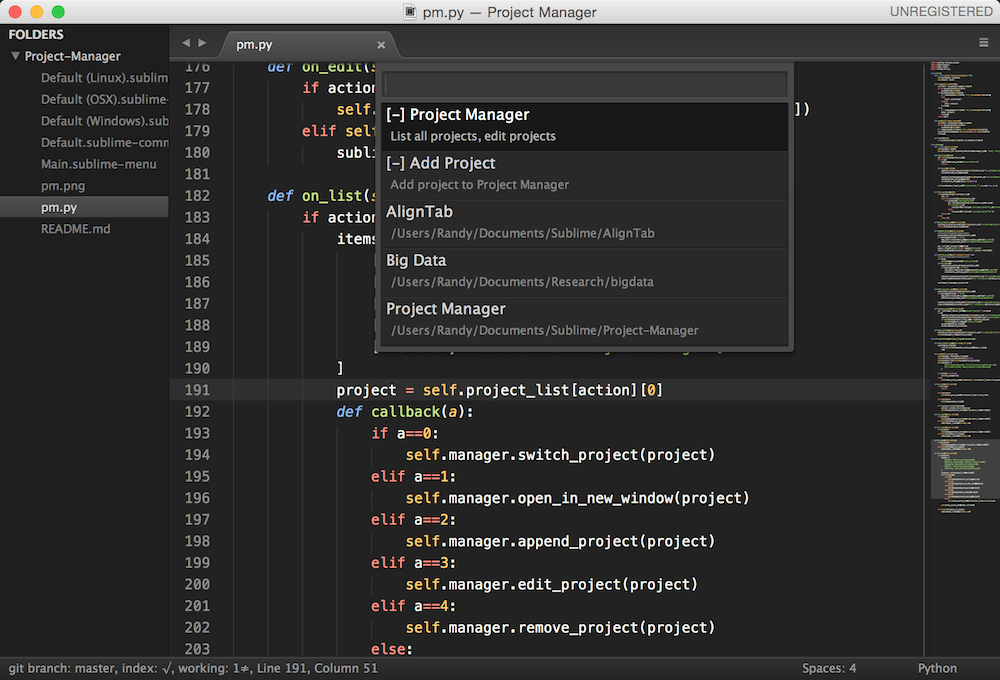
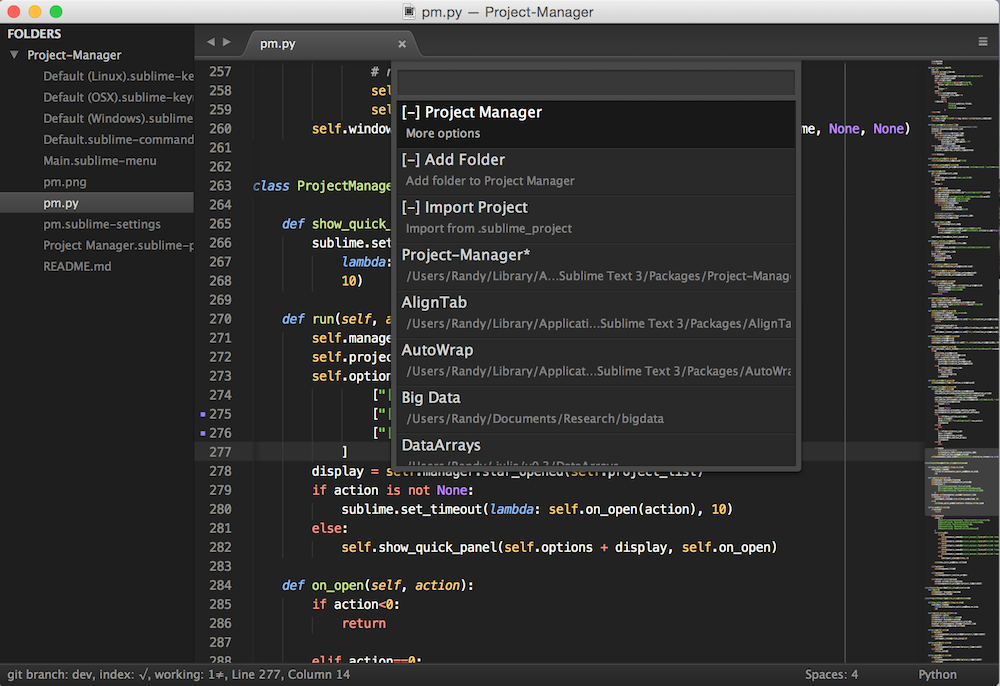
allow external .sublime-project file

Changed region(s): [[0.0, 0.0, 1.0, 1.0], [0.806, 0.9574, 0.868, 1.0]]

diff --git a/pm.py b/pm.py
@@ -45,66 +45,60 @@ def subl(args=[]):
         executable_path = app_path+"Contents/SharedSupport/bin/subl"
     subprocess.Popen([executable_path]+args)
 
+def pabs(root, folder):
+    if not os.path.isabs(folder):
+        folder = os.path.abspath(os.path.join(root, folder))
+    return folder
+
 class Manager:
     def __init__(self, window):
         self.window = window
         settings_file = 'pm.sublime-settings'
         self.settings = sublime.load_settings(settings_file)
-        custom_projects_dir = self.settings.get("projects_dir")
-        if not custom_projects_dir:
-            self.projects_dir = os.path.join(sublime.packages_path(), "User", "Projects")
-        else:
-            self.projects_dir = custom_projects_dir
+        default_projects_dir = os.path.join(sublime.packages_path(), "User", "Projects")
+        self.projects_dir = self.settings.get("projects_dir", default_projects_dir)
+        self.library_json = os.path.join(self.projects_dir, "library.json")
+        self.projects_info = self.get_projects_info()
 
-    def sublime_project(self, project):
-        return os.path.join(self.projects_dir, "%s.sublime-project" % project)
+    def get_library(self):
+        paths = []
+        j = Jfile(self.library_json)
+        for f in j.load([]):
+            if os.path.exists(f) and f not in paths:
+                paths.append(f)
+        for f in os.listdir(self.projects_dir):
+            f = os.path.join(self.projects_dir, f)
+            if f.endswith(".sublime-project") and f not in paths:
+                paths.append(f)
+        j.save(paths)
+        return paths
 
-    def sublime_workspace(self, project):
-        return os.path.join(self.projects_dir, "%s.sublime-workspace" % project)
-
-    def add_project(self):
-        pd = self.window.project_data()
-        if not pd:
-            self.window.run_command("prompt_add_folder")
-            delay = 300
-        else:
-            delay = 1
-
-        def on_add(project):
-            pd = self.window.project_data()
-            Jfile(self.sublime_project(project)).save(pd)
-            Jfile(self.sublime_workspace(project)).save({})
-            self.window.run_command("close_workspace")
-            self.window.run_command("close_project")
-            for v in self.window.views():
-                if not v.is_dirty():
-                    self.window.focus_view(v)
-                    self.window.run_command("close")
-            self.switch_project(project)
-
-        def show_input_panel():
-            pd = self.window.project_data()
-            if pd:
-                project = os.path.basename(pd["folders"][0]["path"])
-                v = self.window.show_input_panel("Project name:", project, on_add, None, None)
-                v.run_command("select_all")
-
-        sublime.set_timeout(show_input_panel, delay)
-
+    def get_projects_info(self):
+        ret = {}
+        library = self.get_library()
+        for f in library:
+            pname = os.path.basename(f).replace(".sublime-project","")
+            root = os.path.dirname(f)
+            pd = Jfile(f).load()
+            if pd and "folders" in pd and pd["folders"]:
+                folder = pd["folders"][0].get("path", "")
+            else:
+                folder = ""
+            star = ""
+            for w in sublime.windows():
+                if w.project_file_name() == f:
+                    star = "*"
+                    break
+            ret[pname] = {
+                            "folder": pabs(root, folder),
+                            "file": f,
+                            "display": pname+star
+                        }
+        return ret
 
     def list_projects(self):
-        if os.path.exists(self.projects_dir):
-            ret = []
-            for f in os.listdir(self.projects_dir):
-                if f.endswith(".sublime-project"):
-                    pd = Jfile(os.path.join(self.projects_dir,f)).load()
-                    if pd and "folders" in pd and pd["folders"]:
-                        ret.append([f.replace(".sublime-project",""), pd["folders"][0].get("path", "")])
-                    else:
-                        ret.append([f.replace(".sublime-project",""),""])
-            return ret
-        else:
-            return []
+        d = [[key, value["folder"]] for key, value in self.projects_info.items()]
+        return sorted(d)
 
     def star_opened(self, project_list):
         # it is a ugly function since it changes project_list
@@ -122,12 +116,65 @@ class Manager:
 
         return display
 
+    def sublime_project(self, project):
+        return self.projects_info[project]["file"]
+
+    def sublime_workspace(self, project):
+        return self.sublime_project(project).replace(".sublime-project", ".sublime-workspace")
+
+    def add_folder(self):
+        pd = self.window.project_data()
+        if not pd:
+            self.window.run_command("prompt_add_folder")
+            delay = 300
+        else:
+            delay = 1
+
+        def on_add(project):
+            pd = self.window.project_data()
+            f = os.path.join(self.projects_dir, "%s.sublime-project" % project)
+            Jfile(f).save(pd)
+            Jfile(f.replace(".sublime-project", ".sublime-workspace")).save({})
+            self.window.run_command("close_workspace")
+            self.window.run_command("close_project")
+            for v in self.window.views():
+                if not v.is_dirty():
+                    self.window.focus_view(v)
+                    self.window.run_command("close")
+
+            # reload projects info
+            self.projects_info = self.get_projects_info()
+            self.switch_project(project)
+
+        def show_input_panel():
+            pd = self.window.project_data()
+            if pd:
+                project = os.path.basename(pd["folders"][0]["path"])
+                v = self.window.show_input_panel("Project name:", project, on_add, None, None)
+                v.run_command("select_all")
+
+        sublime.set_timeout(show_input_panel, delay)
+
+    def import_sublime_project(self):
+        project = self.window.project_file_name()
+        if not project:
+            sublime.message_dialog("Project file *.sublime-project not found!")
+            return
+        ok = sublime.ok_cancel_dialog("Import %s?" % os.path.basename(project))
+        if ok:
+            j = Jfile(self.library_json)
+            data = j.load([])
+            if project not in data:
+                data.append(project)
+                j.save(data)
+
     def get_project_data(self, project):
         return Jfile(self.sublime_project(project)).load()
 
     def check_project(self, project):
         if not os.path.exists(self.sublime_workspace(project)):
-            Jfile(self.sublime_workspace).save({})
+            Jfile(self.sublime_workspace(project)).save({})
+        pass
 
     def close_project(self, project):
         for w in sublime.windows():
@@ -139,7 +186,8 @@ class Manager:
 
     def append_project(self, project):
         pd = self.get_project_data(project)
-        paths = [f.get("path") for f in pd.get("folders")]
+        root = os.path.dirname(self.sublime_project(project))
+        paths = [pabs(root, f.get("path")) for f in pd.get("folders")]
         subl(["-a"] + paths)
 
     def switch_project(self, project):
@@ -160,11 +208,20 @@ class Manager:
         sublime.set_timeout_async(lambda: subl(["-n", self.sublime_project(project)]), 300)
 
     def remove_project(self, project):
-        ok = sublime.ok_cancel_dialog("Remove Project %s?" % project)
+        ok = sublime.ok_cancel_dialog("Remove Project %s from Project Manager?" % project)
         if ok:
-            self.close_project(project)
-            os.unlink(self.sublime_project(project))
-            os.unlink(self.sublime_workspace(project))
+            pfile = self.sublime_project(project)
+            root = os.path.dirname(pfile)
+            if re.match(self.projects_dir, root):
+                self.close_project(project)
+                os.unlink(self.sublime_project(project))
+                os.unlink(self.sublime_workspace(project))
+            else:
+                j = Jfile(self.library_json)
+                data = j.load([])
+                if pfile in data:
+                    data.remove(pfile)
+                j.save(data)
 
     def edit_project(self, project):
         self.window.open_file(self.sublime_project(project))
@@ -172,9 +229,10 @@ class Manager:
     def rename_project(self, project):
         def on_rename(new_project):
             sublime_project = self.sublime_project(project)
-            new_sublime_project = self.sublime_project(new_project)
+            new_sublime_project = os.path.join(os.path.dirname(sublime_project),
+                                    "%s.sublime-project" % new_project)
             sublime_workspace = self.sublime_workspace(project)
-            new_sublime_workspace = self.sublime_workspace(new_project)
+            new_sublime_workspace = new_sublime_project.replace(".sublime-project", ".sublime-workspace")
             if self.close_project(project):
                 reopen = True
             else:
@@ -188,7 +246,15 @@ class Manager:
                 j.save(data)
             except:
                 pass
+            j = Jfile(self.library_json)
+            data = j.load([])
+            if sublime_project in data: data.remove(sublime_project)
+            data.append(new_sublime_project)
+            j.save(data)
+
             if reopen:
+                # reload projects info
+                self.projects_info = self.get_projects_info()
                 self.open_in_new_window(new_project)
         self.window.show_input_panel("New project name:", project, on_rename, None, None)
 
@@ -205,7 +271,8 @@ class ProjectManager(sublime_plugin.WindowCommand):
         self.project_list = self.manager.list_projects()
         self.options = [
                 ["[-] Project Manager", "More options"],
-                ["[-] Add Project", "Add project to Project Manager"]
+                ["[-] Add Folder", "Add folder to Project Manager"],
+                ["[-] Import Project", "Import .sublime_project"]
             ]
         display = self.manager.star_opened(self.project_list)
         if action is not None:
@@ -242,7 +309,10 @@ class ProjectManager(sublime_plugin.WindowCommand):
             self.show_quick_panel(items, callback)
 
         elif action==1:
-            self.manager.add_project()
+            self.manager.add_folder()
+
+        elif action==2:
+            self.manager.import_sublime_project()
 
         elif action>=len(self.options):
             action = action-len(self.options)
@@ -251,7 +321,7 @@ class ProjectManager(sublime_plugin.WindowCommand):
 class ProjectManagerAdd(sublime_plugin.WindowCommand):
     def run(self):
         self.manager = Manager(self.window)
-        self.manager.add_project()
+        self.manager.add_folder()
 
 class ProjectManagerList(sublime_plugin.WindowCommand):
 

diff --git a/README.md b/README.md
@@ -10,7 +10,9 @@ Dont't have any idea what `*.sublime-project` and `*.sublime-workspace` are doin
 You can install Project Manager via Package Control. To launch the Project Manager, you can either open it under the `Project` menu, via the command palette, or use the hotkey `ctrl+cmd+p` (`ctrl+alt+p` for windows/linux).
 
 ### Usage
-Drag some folders into your Sublime Text window and add a project to Project Manager. The options are self-explained, enjoy!
+If you want Project Manager to manage the `*.sublime-project` and `*.sublime-workspace` files. You should open the project folder and use the "Add Folder" option of Project Manager. On the other hand, if you want to keep the project files where they are, you can use the "Import" option.
+
+Other options are self-explained, enjoy!
 
 ### Optional keybind
 You can additionally add the following keybind in your user keybind settings file for "Open project in new window"
@@ -24,7 +26,10 @@ You can additionally add the following keybind in your user keybind settings fil
 
 ### Add existing projects to Project Manager
 
-Just put your `.sublime-project` and `.sublime-workspace` files under the directory `Packages/Users/Projects/`.
+There are two ways to add existing projects to Project Manager.
+
+1. Put your `.sublime-project` and `.sublime-workspace` files in the project directory `Packages/Users/Projects/`.
+2. Open your project, and then use the import option of Project Manager. Project Manager will memorize where the corresponding `.sublime-project` is located and open it accordingly. In other words, you can put the `.sublime-project` file in any places.
 
 ### Custom Projects directory
 
